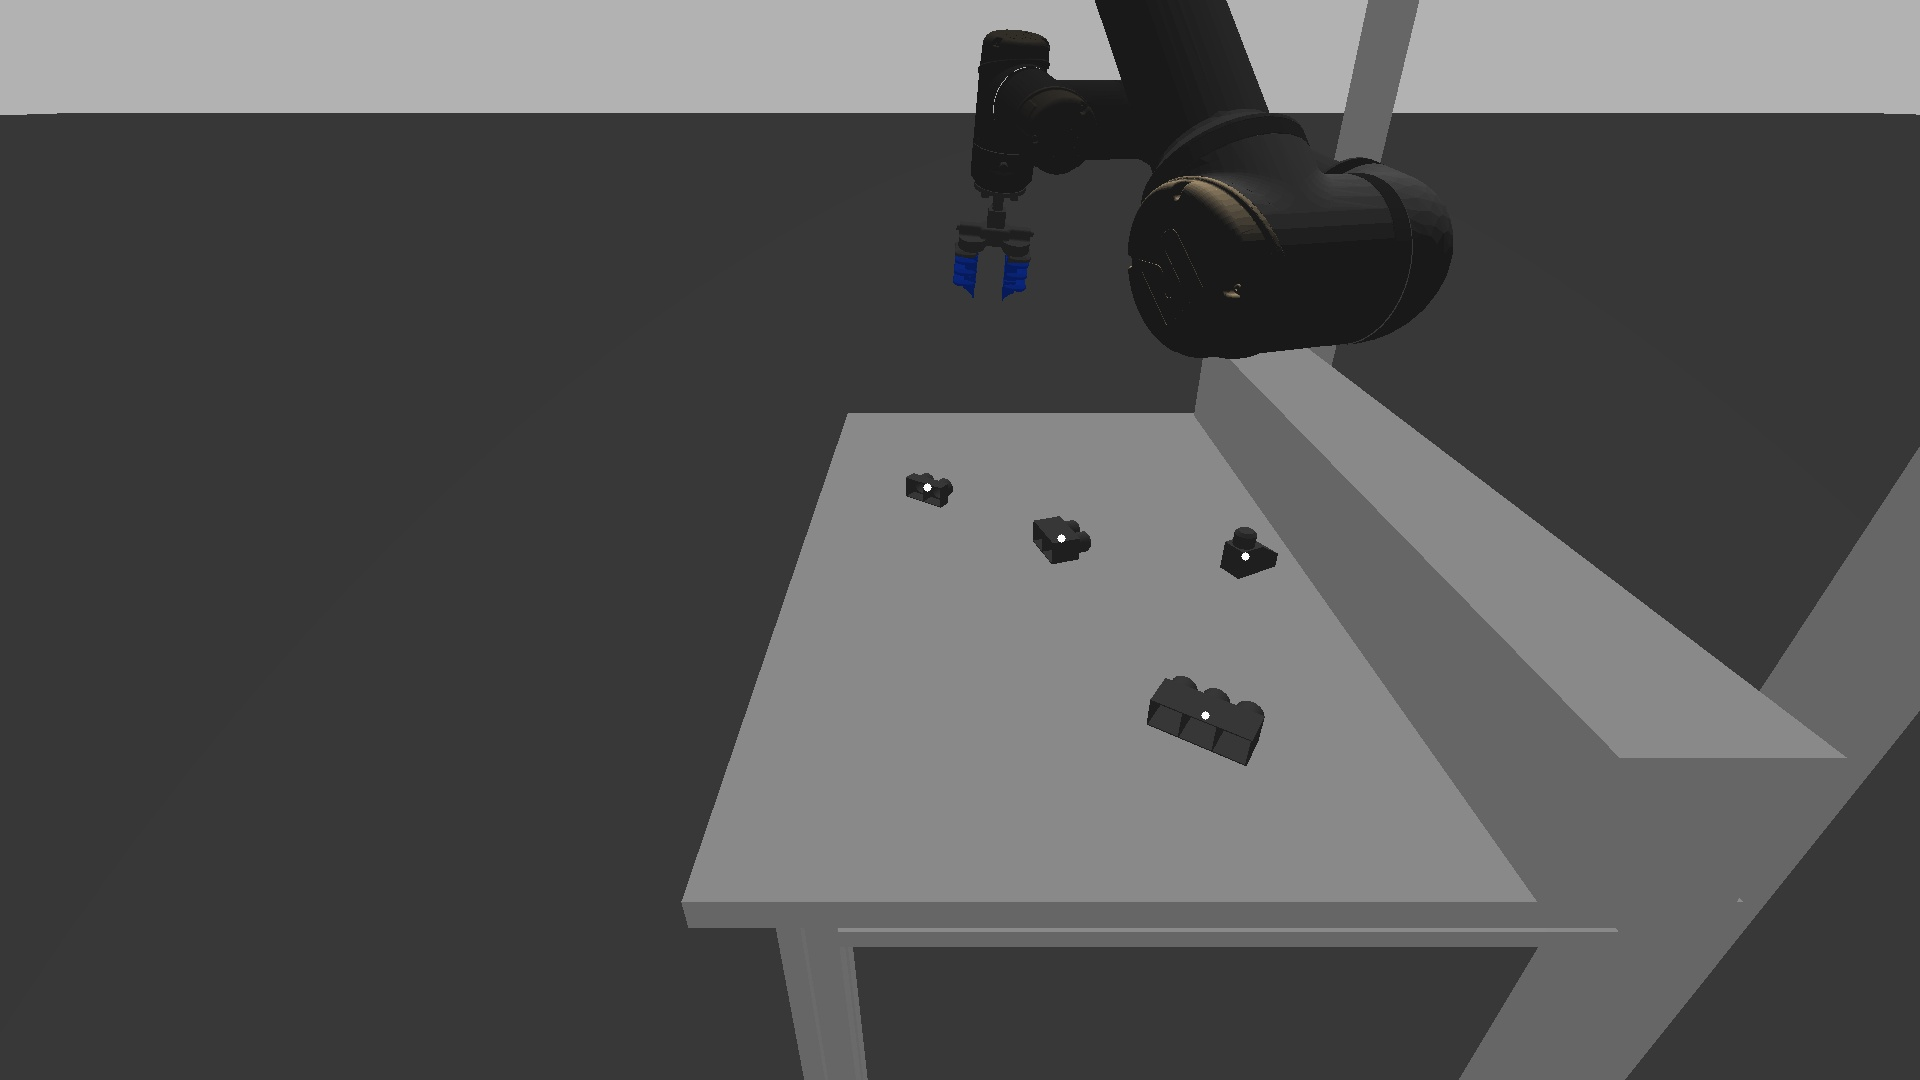
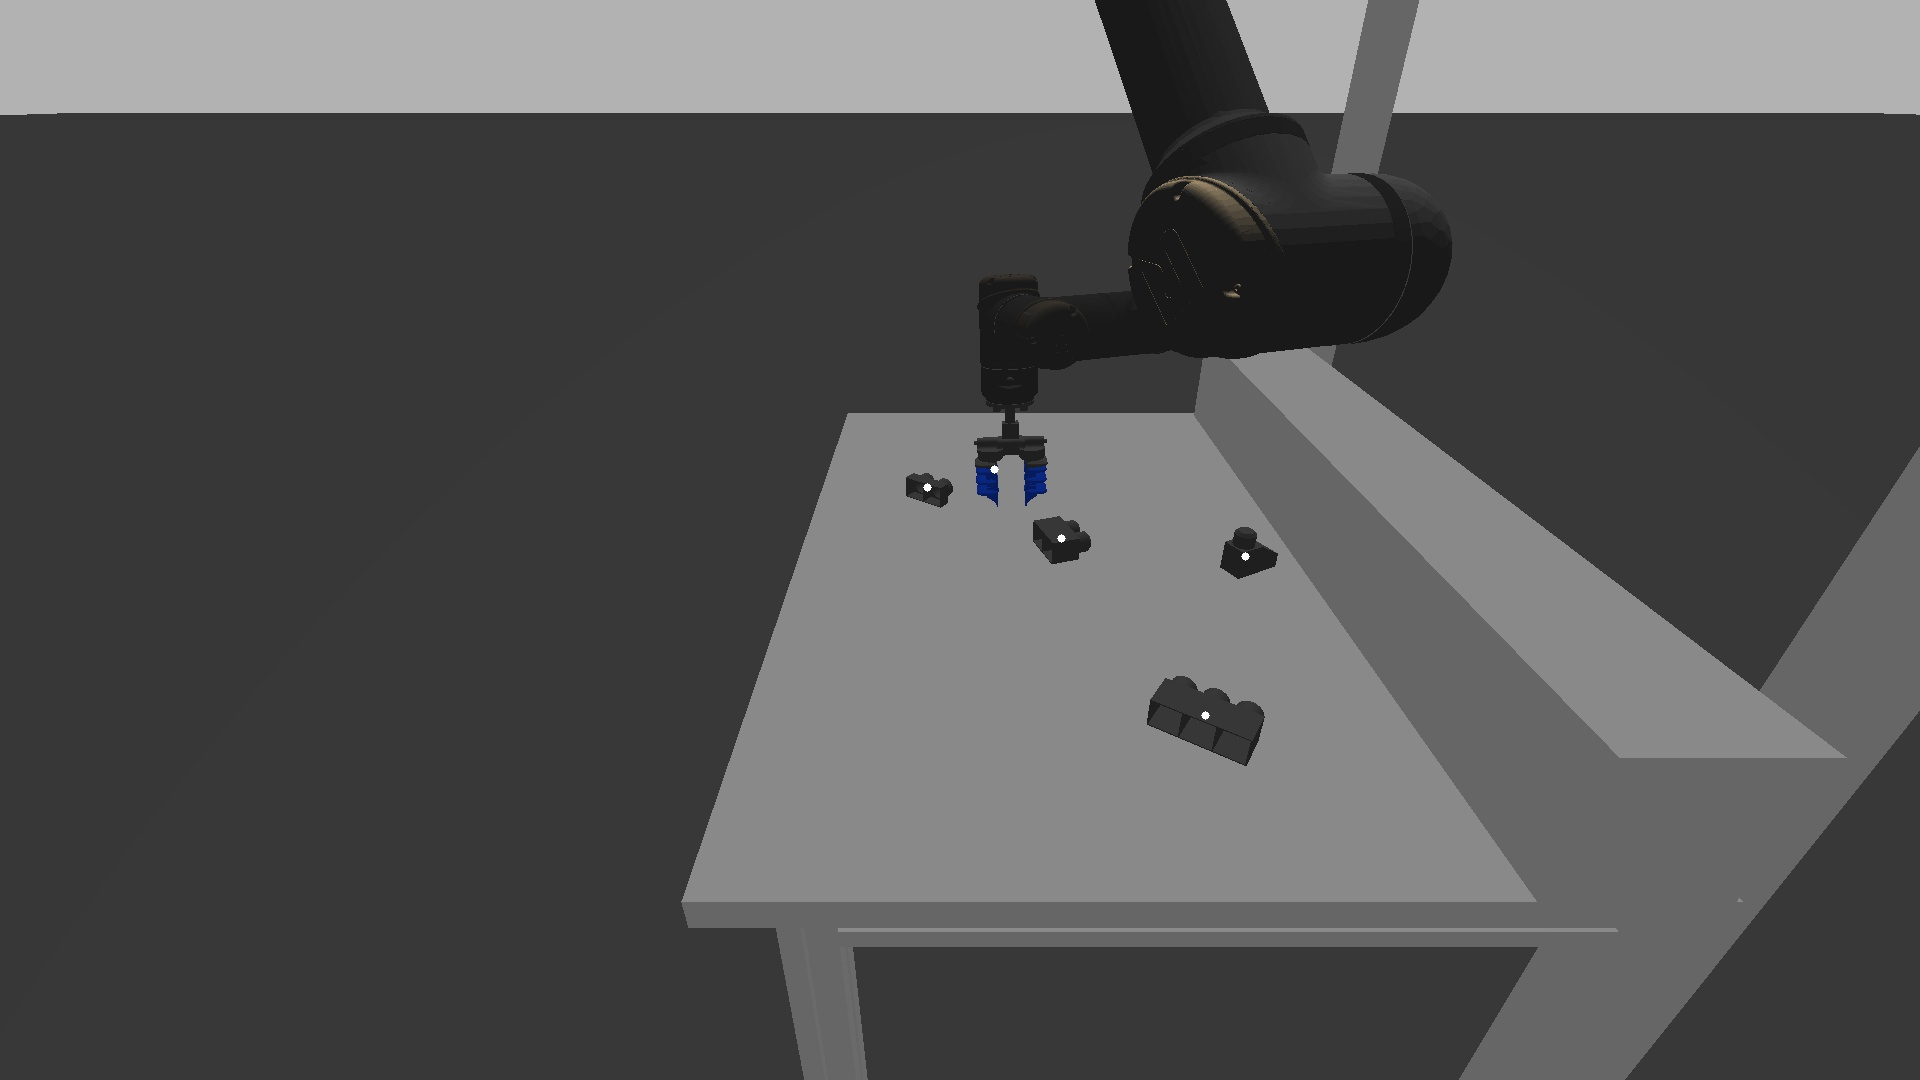
update x

Changed region(s): [[0.5, 0.0306, 0.625, 0.4583], [0.6875, 0.1222, 0.7188, 0.1833]]

diff --git a/tutti.py b/tutti.py
@@ -166,9 +166,29 @@ def process_image(image):
 
         # return to original image sizes (find real coordinates of found centre)
 
-        cv2.imwrite("final.jpg", with_center_image)
-
+        print("-----------------------------------")
         point = Pointxyz(real_coord_x, real_coord_y, center_depth[0][2])
+
+        w_R_c = np.matrix([[0., - 0.49948, 0.86632], [-1., 0., 0.], [-0., - 0.86632, - 0.49948]])
+        w_c = np.array([-0.9, 0.24, -0.35])
+        base_offset = np.array([0.5, 0.35, 1.75])
+
+        real_coord_x = real_coord_x
+        real_coord_y = real_coord_y
+
+        points_list = calculate_depth(real_coord_x, real_coord_y)
+
+
+        print("Data Optical frame: ", points_list)
+        pointW = np.dot(w_R_c, points_list[0]) + w_c + base_offset
+        print("Data World frame: ", pointW)
+        #print("-----------------------------------")
+        robo = np.array(
+            [np.squeeze(np.asarray(pointW))[0], np.squeeze(np.asarray(pointW))[1], np.squeeze(np.asarray(pointW))[2]])
+        #robo[0] = robo[0] - 0.5
+        #robo[1] = 0.35 - robo[1]
+        print("Data robot coord: ", robo)
+        print("-----------------------------------")
 
         block = Block()
         block.class_number = str(cs)
@@ -177,12 +197,14 @@ def process_image(image):
         block.top_btm_l_r = inclination
         block.up_dw_stand_lean = final_incl
         block.confidence = conf
+        block.world_point = Pointxyz(robo[0],robo[1],robo[2])
 
-        # sort block list based on z component (depth)
-        block_list_depths.append(center_depth[0][2])
+
+        # sort block list based on x component (depth)
+        block_list_depths.append(center_depth[0][0])
 
         block_list_depths.sort(reverse=True)
-        new_block_index = [i[0] for i in enumerate(block_list_depths) if i[1] == center_depth[0][2]]
+        new_block_index = [i[0] for i in enumerate(block_list_depths) if i[1] == center_depth[0][0]]
 
         block_list.blocks.insert(new_block_index[0], block)
 

diff --git a/test_cpp/src/test1.cpp b/test_cpp/src/test1.cpp
@@ -324,10 +324,13 @@ int procedure(Robot robot, my_vision_messages::BlockList bl){
         //cout << "\nrotazione: " << bl.blocks[i_block].rot_angle*M_PI*2/360;
         pr_f(3)=bl.blocks[i_block].rot_angle*M_PI*2/360;//ruoto per ee
         //cout << "\nvado al  pezzo: " << pr_f;
+        cin >> f;
 
         robot.move_to_shoulder(pr_f,steps,f,false);
+        cin >> f;
         robot.move_to(pr_f,steps,f,false);//vado al pezzo 
         //robot.rotate(bl.blocks[i_block].rot_angle/360*M_PI);
+        cin >> f;
         sleep(sleep_time);
 
         //cout << "\npubblico il gripper: ";
@@ -337,6 +340,7 @@ int procedure(Robot robot, my_vision_messages::BlockList bl){
         extra_h=helper.get_extra_h(bl.blocks[i_block].class_number);
         pr_f(2) =h_active+extra_h;
         robot.move_to(pr_f,steps,f,false);//abbasso
+        cin >> f;
         sleep(sleep_time*5);
 
         //cout << "\npubblico il gripper: ";
@@ -345,6 +349,7 @@ int procedure(Robot robot, my_vision_messages::BlockList bl){
 
         pr_f(2) =h_safe;
         robot.move_to(pr_f,steps,f,false);//alzo
+        cin >> f;
         sleep(sleep_time);
 
         //cout << "\nevito clipping: ";
@@ -355,7 +360,9 @@ int procedure(Robot robot, my_vision_messages::BlockList bl){
         pr_f(2) =h_safe;
 
         robot.move_to_shoulder(pr_f,steps,f,false);
+        cin >> f;
         robot.move_to(pr_f,steps,f,false);//vado in base
+        cin >> f;
         sleep(sleep_time);
 
         pr_f(2) =h_active;

diff --git a/test_cpp/src/Helper.cpp b/test_cpp/src/Helper.cpp
@@ -158,7 +158,7 @@ class Helper{
 * takes eigen vectors of 3
 *
 * @see dist(Eigen::Vector < double, 6 >pr_i,Eigen::Vector < double, 6 > pr_f)
-* @return float distance in absolute value 
+* @return float distance in absolute value
 */
     float dist(Eigen::Vector3d pr_i,Eigen::Vector3d pr_f){
         return (    pow(pr_i[0],2) + pow(pr_i[1],2) + pow(pr_i[2],2)    ) - (    pow(pr_f[0],2) + pow(pr_f[1],2) + pow(pr_f[2],2)    );
